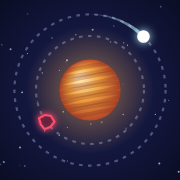
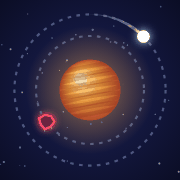
Rétablit le son au retour d'arrière-plan, icônes allégées
- Le son est mis en pause quand l'application passe en arrière-plan ;
  au premier toucher au retour il est relancé, et reconstruit s'il
  reste bloqué (cas iOS « interrupted »)
- Icônes compressées : 780 Ko -> 163 Ko, sans différence visible

Claude-Session: https://claude.ai/code/session_013MH9ikeLCTfWnxSnumixsU

diff --git a/index.html b/index.html
@@ -224,8 +224,36 @@ function recordRun(){
 }
 
 // ---------- audio ----------
-let ac = null;
-function audio(){ if (!ac) { try { ac = new (window.AudioContext || window.webkitAudioContext)(); } catch(e){} } if (ac && ac.state === 'suspended') ac.resume(); return ac; }
+let ac = null, audioCameBack = false;
+function newAudio(){ try { ac = new (window.AudioContext || window.webkitAudioContext)(); } catch(e){ ac = null; } }
+function audio(){
+  if (!ac || ac.state === 'closed') newAudio();
+  if (ac && ac.state !== 'running') ac.resume().catch(() => {});
+  return ac;
+}
+// iOS interrupts audio while the app is in the background and sometimes never gives it back
+// (state "interrupted", or "suspended" forever). We pause it ourselves when leaving; on the first
+// touch after coming back we resume it, and if it is still stuck we rebuild it from scratch
+// (all sounds are synthesised, so nothing is lost).
+function unlockAudio(){                       // a silent sample played inside the touch: required by iOS
+  try { const b = ac.createBuffer(1, 1, 22050), s = ac.createBufferSource(); s.buffer = b; s.connect(ac.destination); s.start(0); ac.resume().catch(() => {}); } catch(e){}
+}
+function wakeAudio(){
+  if (!ac || ac.state === 'running') return;
+  if (ac.state === 'suspended' && !audioCameBack){
+    const old = ac; old.resume().catch(() => {});
+    setTimeout(() => { if (ac === old && old.state !== 'running') audioCameBack = true; }, 300);  // stuck: rebuild on next touch
+    return;
+  }
+  try { ac.close(); } catch(e){}
+  newAudio(); if (ac) unlockAudio();
+  audioCameBack = false;
+}
+document.addEventListener('visibilitychange', () => {
+  if (document.hidden){ if (ac && ac.state === 'running') ac.suspend().catch(() => {}); }
+  else audioCameBack = true;
+});
+for (const ev of ['touchend', 'pointerdown', 'click', 'keydown']) addEventListener(ev, wakeAudio, {capture: true, passive: true});
 function tone(f1, f2, dur, type='sine', vol=.15, at=0){
   if (muted) return; const a = audio(); if (!a) return;
   const o = a.createOscillator(), g = a.createGain(), t = a.currentTime + at;

diff --git a/sw.js b/sw.js
@@ -1,6 +1,6 @@
 // Orbite service worker: the game keeps working offline once opened online.
 // Bump CACHE when publishing a new version so old files are dropped.
-const CACHE = 'orbite-v6';
+const CACHE = 'orbite-v7';
 const CORE = ['./', './index.html', './manifest.webmanifest',
   './icons/icon-192.png', './icons/icon-512.png', './icons/apple-touch-icon.png'];
 
